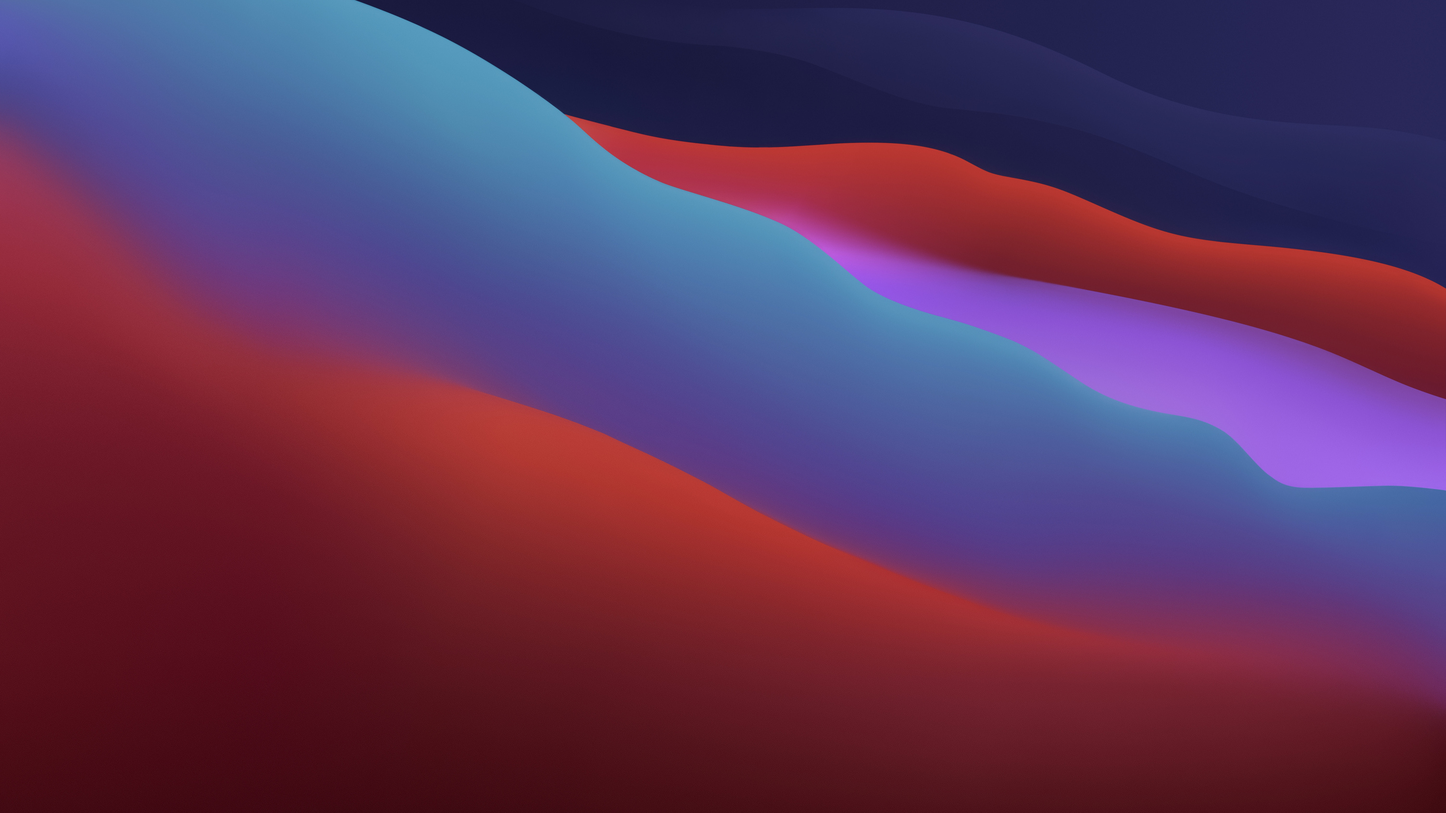
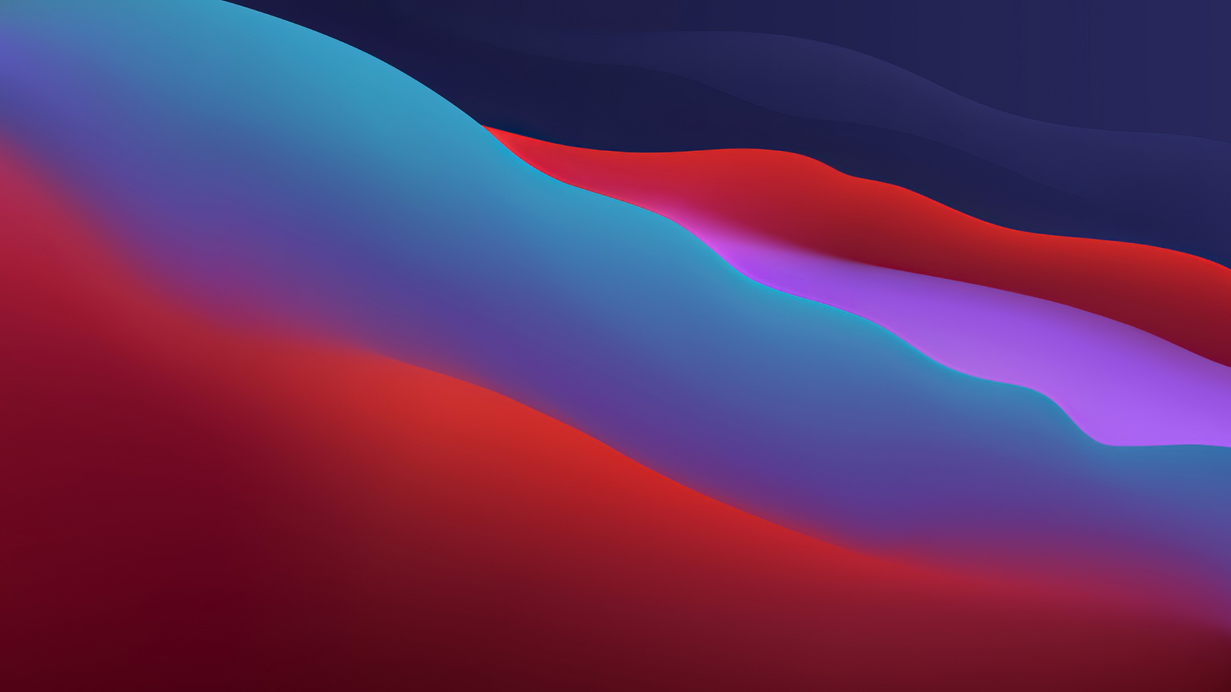
fine tuning

diff --git a/lib/simple/themes/neon_theme.dart b/lib/simple/themes/neon_theme.dart
@@ -125,7 +125,7 @@ class NeonTheme extends SimpleTheme {
             alignment: Alignment.center,
             childAlignment: Alignment.center,
             margin: const EdgeInsets.all(2),
-            padding: const EdgeInsets.all(2),
+            padding: const EdgeInsets.all(4),
             backgroundDecoration: const BoxDecoration(
               color: Colors.transparent,
             ),
@@ -154,7 +154,7 @@ class NeonTheme extends SimpleTheme {
             alignment: Alignment.center,
             childAlignment: Alignment.center,
             margin: const EdgeInsets.all(2),
-            padding: const EdgeInsets.all(2),
+            padding: const EdgeInsets.all(4),
             backgroundDecoration: const BoxDecoration(
               color: Colors.transparent,
             ),
@@ -183,7 +183,7 @@ class NeonTheme extends SimpleTheme {
             alignment: Alignment.center,
             childAlignment: Alignment.center,
             margin: const EdgeInsets.all(2),
-            padding: const EdgeInsets.all(2),
+            padding: const EdgeInsets.all(4),
             backgroundDecoration: BoxDecoration(
               gradient: LinearGradient(colors: [
                 themePalette.popupMenuTileColor.withOpacity(0.9),
@@ -222,6 +222,7 @@ class NeonTheme extends SimpleTheme {
   Responsive<Style> get popupMenuTitleStyle => Responsive({
         allScreen: Style(
             margin: const EdgeInsets.all(2),
+            padding: const EdgeInsets.symmetric(vertical: 4, horizontal: 4),
             alignment: Alignment.centerLeft,
             textStyle: DynamicTextStyle(
               fontSize: 14.toPXLength,
@@ -438,7 +439,7 @@ class NeonTheme extends SimpleTheme {
                       color: themePalette.baseColor5, width: 10))),
           textStyle: DynamicTextStyle(
             letterSpacing: 1.toPXLength,
-            fontSize: 30.toPXLength,
+            fontSize: 24.toPXLength,
             fontFamily: "Beon",
             fontWeight: FontWeight.w900,
             color: Colors.white,
@@ -557,6 +558,21 @@ class NeonTheme extends SimpleTheme {
                       color: themePalette.baseColor1, width: 3),
                   right: DynamicBorderSide(
                       color: themePalette.baseColor5, width: 6))),
+          textStyle: DynamicTextStyle(
+            letterSpacing: 1.toPXLength,
+            fontSize: 24.toPXLength,
+            fontFamily: "Beon",
+            fontWeight: FontWeight.w900,
+            color: Colors.white,
+            shadows: [
+              const Shadow(
+                  blurRadius: 10, color: Colors.white, offset: Offset(0, 0)),
+              const Shadow(
+                  blurRadius: 25, color: Colors.white, offset: Offset(0, 0)),
+              const Shadow(
+                  blurRadius: 5, color: Colors.white70, offset: Offset(0, 0))
+            ],
+          ),
         ),
         middleScreen: _baseStyle.copyWith(
           width: _TileDimension.medium,
@@ -734,7 +750,7 @@ class NeonThemePaletteLight extends NeonThemePalette {
   @override
   Color get nameColor => Colors.cyan.shade900;
   @override
-  Color get titleColor => Colors.cyan.shade600;
+  Color get titleColor => Colors.cyanAccent.shade700;
   @override
   Color get defaultColor => Colors.cyan;
 

diff --git a/lib/simple/themes/glassmorphsim_theme.dart b/lib/simple/themes/glassmorphsim_theme.dart
@@ -333,7 +333,7 @@ class GlassmorphismTheme extends SimpleTheme {
                 spreadRadius: 2,
                 blurRadius: 5,
                 color: Colors.black.withOpacity(0.02),
-                offset: const Offset(5, 5)),
+                offset: const Offset(3, 3)),
           ],
           backgroundDecoration:
               BoxDecoration(color: themePalette.tileHoverColor),
@@ -372,7 +372,7 @@ class GlassmorphismTheme extends SimpleTheme {
                 spreadRadius: 2,
                 blurRadius: 5,
                 color: Colors.black.withOpacity(0.02),
-                offset: const Offset(5, 5)),
+                offset: const Offset(3, 3)),
           ],
           backgroundDecoration:
               BoxDecoration(color: themePalette.tileHoverColor),
@@ -411,7 +411,7 @@ class GlassmorphismTheme extends SimpleTheme {
                 spreadRadius: 2,
                 blurRadius: 5,
                 color: Colors.black.withOpacity(0.02),
-                offset: const Offset(5, 5)),
+                offset: const Offset(3, 3)),
           ],
           backgroundDecoration:
               BoxDecoration(color: themePalette.tileHoverColor),
@@ -538,7 +538,7 @@ class GlassmorphismTheme extends SimpleTheme {
           fontWeight: FontWeight.bold,
           shadows: [
             const Shadow(
-                blurRadius: 3, color: PuzzleColors.grey1, offset: Offset(3, 3)),
+                blurRadius: 5, color: PuzzleColors.grey2, offset: Offset(2, 2)),
           ]);
 
   @override
@@ -559,7 +559,7 @@ class GlassmorphismTheme extends SimpleTheme {
             spreadRadius: 2,
             blurRadius: 10,
             color: themePalette.kAmbientShadowOpacity,
-            offset: const Offset(10, 10)),
+            offset: const Offset(5, 5)),
       ],
       shapeBorder: RectangleShapeBorder(
           border: DynamicBorderSide(
@@ -690,19 +690,19 @@ class GlassmorphismThemePaletteDark extends GlassmorphismThemePalette {
 
   @override
   Color get kAmbientShadowOpacity =>
-      Colors.black.withOpacity(0.05); // alpha = 0.12
+      Colors.grey.shade200.withOpacity(0.04); // alpha = 0.12
 
   @override
   Color get tileTextColor => Colors.white;
 
   @override
-  Color get tileColor => Colors.grey.shade50.withOpacity(0.1);
+  Color get tileColor => Color(0xFFFCFCFC).withOpacity(0.1);
 
   @override
-  Color get tileHoverColor => Colors.grey.shade50.withOpacity(0.07);
+  Color get tileHoverColor => Colors.grey.shade50.withOpacity(0.08);
 
   @override
-  Color get tilePressedColor => Colors.grey.shade50.withOpacity(0.04);
+  Color get tilePressedColor => Colors.grey.shade50.withOpacity(0.06);
 
   @override
   Color get menuUnderlineColor => Colors.white;

diff --git a/lib/simple/themes/claymorphsim_theme.dart b/lib/simple/themes/claymorphsim_theme.dart
@@ -176,9 +176,9 @@ class ClaymorphismTheme extends SimpleTheme {
             ],
             insetShadows: [
               ShapeShadow(
-                  blurRadius: 10,
+                  blurRadius: 3,
                   color: themePalette.baseColor4,
-                  offset: const Offset((-3), (-3))),
+                  offset: const Offset((2), (2))),
               ShapeShadow(
                   blurRadius: 2,
                   spreadRadius: 1,
@@ -327,7 +327,7 @@ class ClaymorphismTheme extends SimpleTheme {
   @override
   Responsive<Style> get popupMenuSliderActiveTrackStyle => Responsive({
         allScreen: Style(
-          height: 10.toPXLength,
+          height: 8.toPXLength,
           backgroundDecoration: BoxDecoration(
               gradient: LinearGradient(colors: [
             themePalette.tileTextColor,
@@ -335,7 +335,7 @@ class ClaymorphismTheme extends SimpleTheme {
           ])),
           shapeBorder: RectangleShapeBorder(
             borderRadius:
-                DynamicBorderRadius.all(DynamicRadius.circular(5.toPXLength)),
+                DynamicBorderRadius.all(DynamicRadius.circular(4.toPXLength)),
           ),
         )
       });

diff --git a/lib/simple/themes/cupertino_theme.dart b/lib/simple/themes/cupertino_theme.dart
@@ -410,7 +410,7 @@ abstract class CupertinoThemePalette {
 
 class CupertinoThemePaletteLight extends CupertinoThemePalette {
   @override
-  String get backgroundImage => "assets/images/macos_big_sur.jpg";
+  String get backgroundImage => "assets/images/Mojave Day.jpg";
 
   @override
   Color get nameColor => PuzzleColors.grey1;
@@ -468,7 +468,7 @@ class CupertinoThemePaletteLight extends CupertinoThemePalette {
 
 class CupertinoThemePaletteDark extends CupertinoThemePalette {
   @override
-  String get backgroundImage => "assets/images/macos_big_sur_dark.jpg";
+  String get backgroundImage => "assets/images/Mojave Night.jpg";
 
   @override
   Color get nameColor => Colors.white70;
@@ -521,5 +521,5 @@ class CupertinoThemePaletteDark extends CupertinoThemePalette {
   Color get popupMenuUnselectedColor => Colors.white70;
 
   @override
-  Color get popupMenuColor => const Color(0xFF313131);
+  Color get popupMenuColor => const Color(0xFF252525);
 }

diff --git a/lib/simple/themes/neumorphic_theme.dart b/lib/simple/themes/neumorphic_theme.dart
@@ -122,7 +122,7 @@ class NeumorphicTheme extends SimpleTheme {
             margin: const EdgeInsets.all(2),
             padding: const EdgeInsets.all(2),
             backgroundDecoration: BoxDecoration(
-              color: themePalette.baseColor,
+              color: themePalette.baseColor.withOpacity(0.01),
             ),
             shapeBorder: RectangleShapeBorder(
               borderRadius: DynamicBorderRadius.all(
@@ -146,7 +146,7 @@ class NeumorphicTheme extends SimpleTheme {
             margin: const EdgeInsets.all(2),
             padding: const EdgeInsets.all(2),
             backgroundDecoration: BoxDecoration(
-              color: themePalette.baseColor,
+              color: themePalette.baseColor.withOpacity(0.01),
             ),
             shapeBorder: RectangleShapeBorder(
               borderRadius: DynamicBorderRadius.all(

diff --git a/lib/simple/themes/material_theme.dart b/lib/simple/themes/material_theme.dart
@@ -73,7 +73,7 @@ class MaterialTheme extends SimpleTheme {
           shapeBorder: RectangleShapeBorder(
             border: const DynamicBorderSide(color: Colors.grey, width: 0.2),
             borderRadius:
-                DynamicBorderRadius.all(DynamicRadius.circular(5.toPXLength)),
+                DynamicBorderRadius.all(DynamicRadius.circular(10.toPXLength)),
           ),
           padding: const EdgeInsets.symmetric(horizontal: 10, vertical: 5),
           shadows: [

diff --git a/lib/simple/themes/wood_theme.dart b/lib/simple/themes/wood_theme.dart
@@ -273,7 +273,7 @@ class WoodTheme extends SimpleTheme {
                 image: DecorationImage(
                     fit: BoxFit.cover,
                     colorFilter: ColorFilter.mode(
-                        Colors.brown.shade700.withOpacity(0.4),
+                        const Color(0xFF352525).withOpacity(0.5),
                         BlendMode.darken),
                     image:
                         const AssetImage('assets/images/wood_background.jpg'))),

diff --git a/lib/app/view/app.dart b/lib/app/view/app.dart
@@ -55,6 +55,8 @@ class _AppState extends State<App> {
     'assets/images/wood_background.jpg',
     'assets/images/macos_big_sur.jpg',
     'assets/images/macos_big_sur_dark.jpg',
+    'assets/images/Mojave Day.jpg',
+    'assets/images/Mojave Night.jpg',
   ];
 
   late final PlatformHelper _platformHelper;
